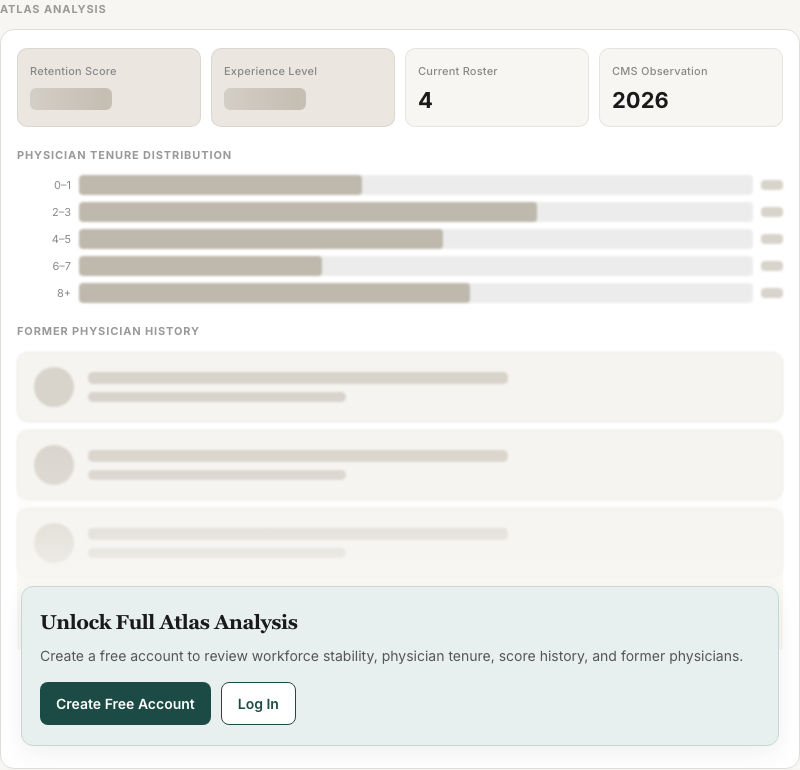
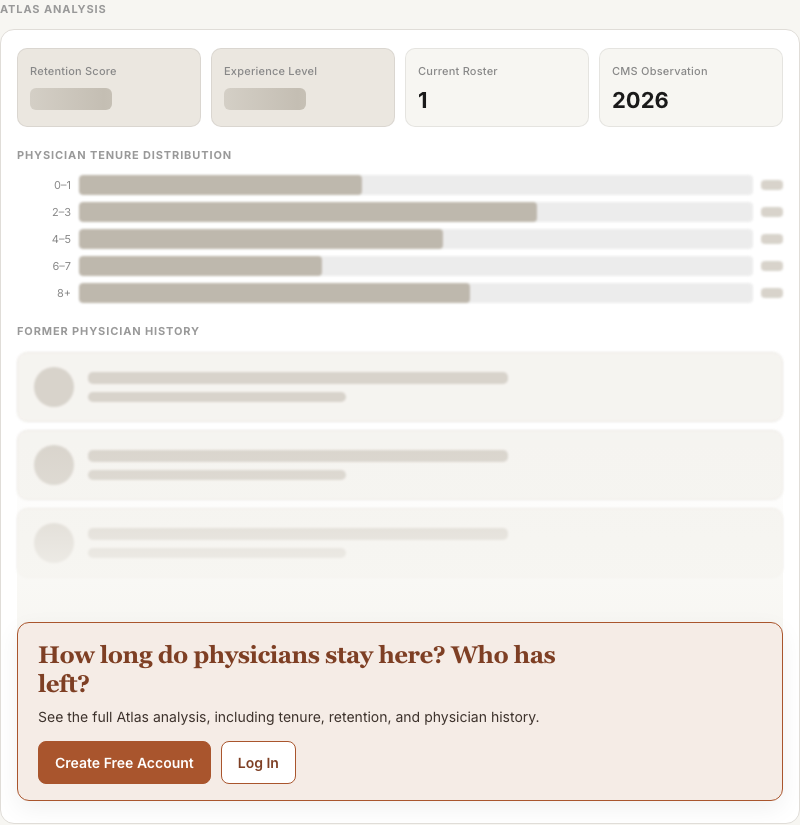
Use a terracotta question-led CTA on public practice analysis.
Make the signup gate a high-attention decision point under the locked former-physician preview without changing auth destinations or other surfaces.

diff --git a/src/app/globals.css b/src/app/globals.css
@@ -1040,6 +1040,71 @@ a { color: inherit; text-decoration: none; }
   border: 1.5px solid #1C4A45;
 }
 
+/* Public practice locked-analysis CTA only */
+.unlock-cta.unlock-cta-emphasis {
+  background: #F5ECE6;
+  border: 1px solid #A9552D;
+  border-radius: 12px;
+  padding: 18px 20px 16px;
+  box-shadow: none;
+}
+
+.unlock-cta-emphasis .unlock-cta-title {
+  font-size: 24px;
+  font-weight: 700;
+  color: #7E3F24;
+  line-height: 1.2;
+  letter-spacing: -0.02em;
+  margin-bottom: 8px;
+  max-width: 34rem;
+}
+
+.unlock-cta-emphasis .unlock-cta-body {
+  font-size: 14px;
+  color: #3d322c;
+  line-height: 1.5;
+  margin-bottom: 14px;
+  max-width: 34rem;
+}
+
+.unlock-cta-emphasis .unlock-cta-actions {
+  justify-content: flex-start;
+  gap: 10px;
+}
+
+.unlock-cta-emphasis .unlock-cta-primary {
+  background: #A9552D;
+  color: #FFFFFF;
+  border: 1.5px solid #A9552D;
+}
+
+.unlock-cta-emphasis .unlock-cta-primary:hover,
+.unlock-cta-emphasis .unlock-cta-primary:focus-visible {
+  background: #7E3F24;
+  border-color: #7E3F24;
+  color: #FFFFFF;
+}
+
+.unlock-cta-emphasis .unlock-cta-secondary {
+  background: #FFFFFF;
+  color: #7E3F24;
+  border: 1.5px solid #A9552D;
+}
+
+.unlock-cta-emphasis .unlock-cta-secondary:hover,
+.unlock-cta-emphasis .unlock-cta-secondary:focus-visible {
+  background: #F5ECE6;
+  color: #7E3F24;
+}
+
+.locked-former-gated:has(+ .unlock-cta-emphasis) {
+  padding-bottom: 36px;
+}
+
+.unlock-cta.unlock-cta-overlay.unlock-cta-emphasis {
+  margin: -36px 0 0;
+}
+
 /* ── Locked analysis gate (public profiles) ── */
 .locked-analysis-module {
   margin-bottom: 32px;
@@ -1380,6 +1445,21 @@ a { color: inherit; text-decoration: none; }
     padding: 18px 14px;
   }
 
+  .unlock-cta.unlock-cta-overlay.unlock-cta-emphasis {
+    margin: -24px 0 0;
+    padding: 16px 14px 14px;
+  }
+
+  .unlock-cta-emphasis .unlock-cta-title {
+    font-size: 22px;
+  }
+
+  .unlock-cta-emphasis .unlock-cta-primary,
+  .unlock-cta-emphasis .unlock-cta-secondary {
+    min-height: 44px;
+    padding: 11px 14px;
+  }
+
   .unlock-cta-actions {
     gap: 10px;
   }
@@ -1391,5 +1471,17 @@ a { color: inherit; text-decoration: none; }
 
   .locked-analysis-module-body {
     padding: 14px 12px 18px;
+  }
+}
+
+@media (max-width: 360px) {
+  .unlock-cta-emphasis .unlock-cta-actions {
+    flex-direction: column;
+    align-items: stretch;
+  }
+
+  .unlock-cta-emphasis .unlock-cta-primary,
+  .unlock-cta-emphasis .unlock-cta-secondary {
+    width: 100%;
   }
 }

diff --git a/src/components/PracticeDetailPublic.tsx b/src/components/PracticeDetailPublic.tsx
@@ -167,10 +167,10 @@ export default async function PracticeDetailPublic({ id }: { id: string }) {
             </div>
 
             <UnlockAnalysisCta
-              className="unlock-cta-overlay"
+              className="unlock-cta-overlay unlock-cta-emphasis"
               nextPath={nextPath}
-              title="Unlock Full Atlas Analysis"
-              body="Create a free account to review workforce stability, physician tenure, score history, and former physicians."
+              title="How long do physicians stay here? Who has left?"
+              body="See the full Atlas analysis, including tenure, retention, and physician history."
             />
           </div>
         </div>
